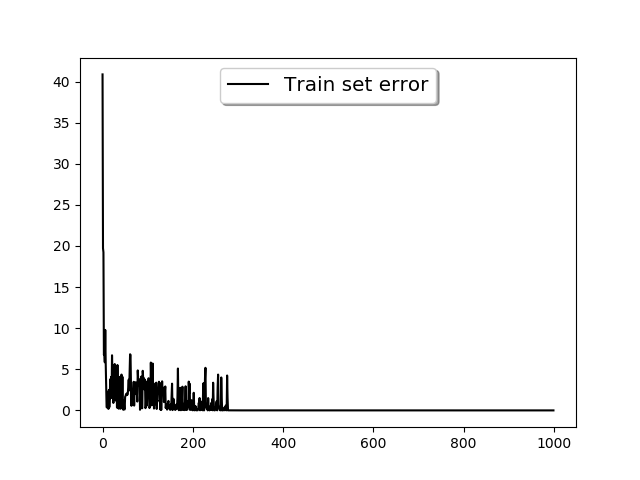
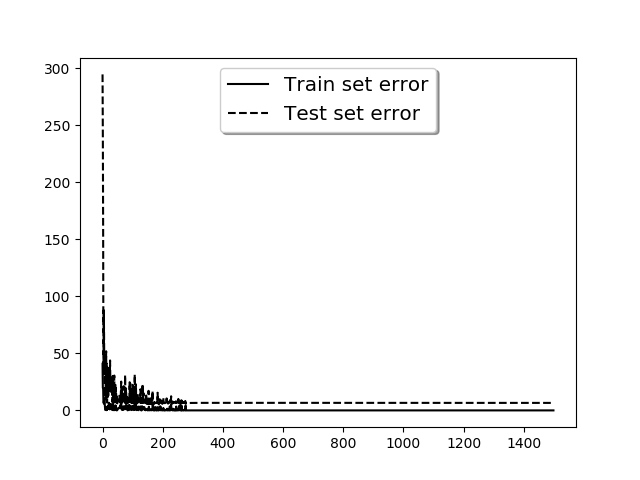
Poprawione wykresy błędów

diff --git a/main.py b/main.py
@@ -132,7 +132,7 @@ fig, ax = plt.subplots()
 ax.plot(loss_values_train, 'k', label = "Train set error")
 ax.plot(loss_values_test, 'k--', label = "Test set error")
 lebel = ax.legend(loc ='upper center',shadow =True ,fontsize ='x-large')
-#plt.savefig("Porownania/"+ config["problem"].capitalize() + "/"+ config["set_name"]+config["number_of_samples"] +"loss"+".png")
+plt.savefig("Porownania/"+ config["problem"].capitalize() + "/"+ config["set_name"]+config["number_of_samples"] +"loss"+".png")
 plt.show()
 plt.close()
 
